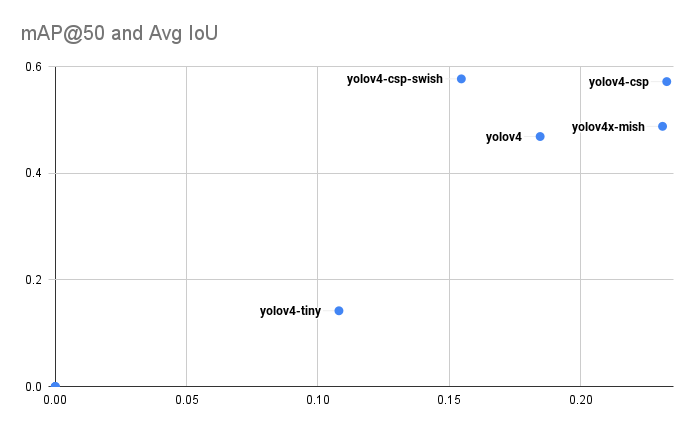
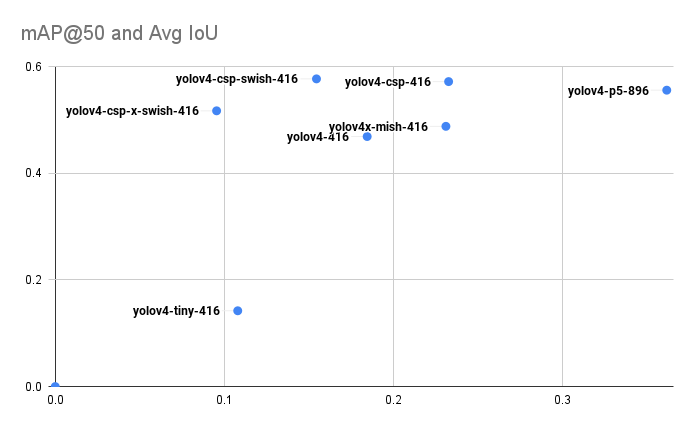
added p5 statistics

diff --git a/README.md b/README.md
@@ -36,11 +36,13 @@ All the values range between 0 - 1
 
 | Model | Reso lution | Batch | Sub divisions | Pre trained | Precision | Recall | F1 score | mAP @0.5 | Avg IoU | Output |
 | ----- | ----------- | ----- | ------------- |------------ |---------- |------- |--------- | -------- | ------- | ------ |
-| yolov4-tiny      | 416 | 16 | 8 | Yes | 0.21 | 0.08 | 0.11 | 0.1080 | 0.1422 | [terminal](trainOutput/yolov4-tiny-pretrained-416.png) |
-| yolov4           | 416 | 16 | 8 | Yes | 0.62 | 0.33 | 0.43 | 0.1846 | 0.4690 | [terminal](trainOutput/yolov4-pretrained-416.png) |
-| yolov4x-mish     | 416 | 16 | 8 | Yes | 0.65 | 0.34 | 0.44 | 0.2312 | 0.4881 | [terminal](trainOutput/yolov4x-mish-pretrained-416.png) |
-| yolov4-csp       | 416 | 16 | 8 | Yes | 0.77 | 0.36 | 0.49 | 0.2328 | 0.5720 | [terminal](trainOutput/yolov4-csp-pretrained-416.png) |
-| yolov4-csp-swish | 416 | 16 | 8 | Yes | 0.68 | 0.33 | 0.44 | 0.1546 | 0.5771 | [terminal](trainOutput/yolov4-csp-swish-pretrained-416.png) |
+| yolov4-tiny        | 416 | 16 | 8 | Yes | 0.21 | 0.08 | 0.11 | 0.1080 | 0.1422 | [terminal](trainOutput/yolov4-tiny-pretrained-416.png) |
+| yolov4             | 416 | 16 | 8 | Yes | 0.62 | 0.33 | 0.43 | 0.1846 | 0.4690 | [terminal](trainOutput/yolov4-pretrained-416.png) |
+| yolov4x-mish       | 416 | 16 | 8 | Yes | 0.65 | 0.34 | 0.44 | 0.2312 | 0.4881 | [terminal](trainOutput/yolov4x-mish-pretrained-416.png) |
+| yolov4-csp         | 416 | 16 | 8 | Yes | 0.77 | 0.36 | 0.49 | 0.2328 | 0.5720 | [terminal](trainOutput/yolov4-csp-pretrained-416.png) |
+| yolov4-csp-swish   | 416 | 16 | 8 | Yes | 0.68 | 0.33 | 0.44 | 0.1546 | 0.5771 | [terminal](trainOutput/yolov4-csp-swish-pretrained-416.png) |
+| yolov4-csp-x-swish | 416 | 16 | 8 | Yes | 0.68 | 0.33 | 0.45 | 0.0955 | 0.5172 | [terminal](trainOutput/yolov4-csp-x-swish-pretrained-416.png) |
+| yolov4-p5          | 896 | 16 | 8 | Yes | 0.68 | 0.41 | 0.51 | 0.3619 | 0.5559 | [terminal](trainOutput/yolov4-p5-pretrained-896.png) |
 
 ![Image](trainOutput/model-comparison.png)
 
@@ -98,10 +100,4 @@ Following commands will enable the training of models in coorindation of [Prepro
 
 ```sh
 ./darknet detector train ../config/obj.data ../FabVis-Models/config/yolov4-p6.cfg ../FabVis-Models/preTrainedWeights/yolov4-p6.conv.289 -dont_show -mjpeg_port 8090 -map
-```
-
-## Yolov4-p7-mish
-
-```sh
-./darknet detector train ../config/obj.data ../FabVis-Models/config/cspx-p7-mish.cfg ../FabVis-Models/preTrainedWeights/cspx-p7-mish_hp.344.conv -dont_show -mjpeg_port 8090 -map
 ```
